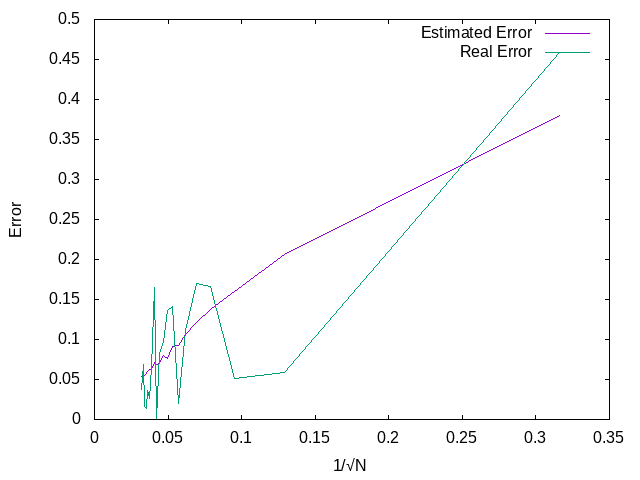
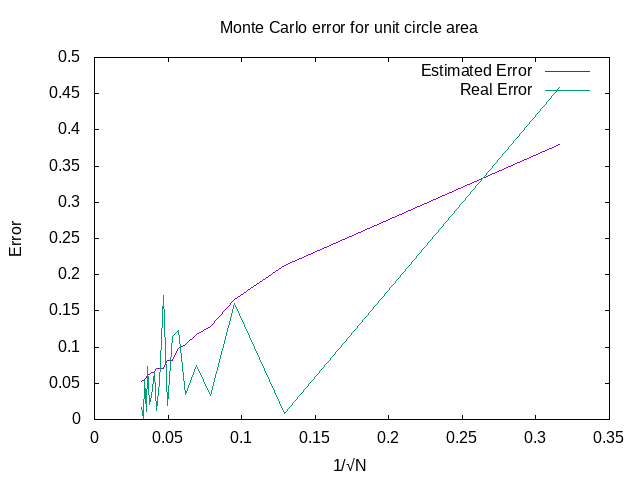
Titled image

diff --git a/Homeworks/mc/main.cs b/Homeworks/mc/main.cs
@@ -1,5 +1,6 @@
 using static System.Console;
 using static System.Math;
+using System.IO;
 using System;
 
 class main{
@@ -10,12 +11,14 @@ class main{
 		vector b =new vector(new double[] {1,1});
 		Func<vector,double> circle = v=>(v[0]*v[0]+v[1]*v[1]<=1.0)? 1.0 : 0.0;
 		double areaEst=0, errEst=0;
-		for(int N=10; N<=1000; N+=50){
-			var result=MC.plainmc(circle,a,b,N);
-			areaEst=result.Item1;
-			errEst=result.Item2;
-			double errReal=Abs(areaEst-PI);
-			WriteLine($"{1/Math.Sqrt(N):F6} {errEst:F6} {errReal:F6}");
+		using (var File =new StreamWriter("out.circle.dat")){
+			for(int N=10; N<=1000; N+=50){
+				var result=MC.plainmc(circle,a,b,N);
+				areaEst=result.Item1;
+				errEst=result.Item2;
+				double errReal=Abs(areaEst-PI);
+				File.WriteLine($"{1/Math.Sqrt(N):F6} {errEst:F6} {errReal:F6}");
+			}
 		}
 		a =new vector(new double[] {0,0,0});
 		b =new vector(new double[] {PI,PI,PI});
@@ -40,6 +43,7 @@ class main{
 		double areaS=resultS.Item1;
 		double errS=resultS.Item2;
 		WriteLine($"StratifiedMC\t{areaS:F6}\t{errS:E3}\t{Math.Abs(areaS-PI):E3}");
+		
 		return 0;
 	
 	}
